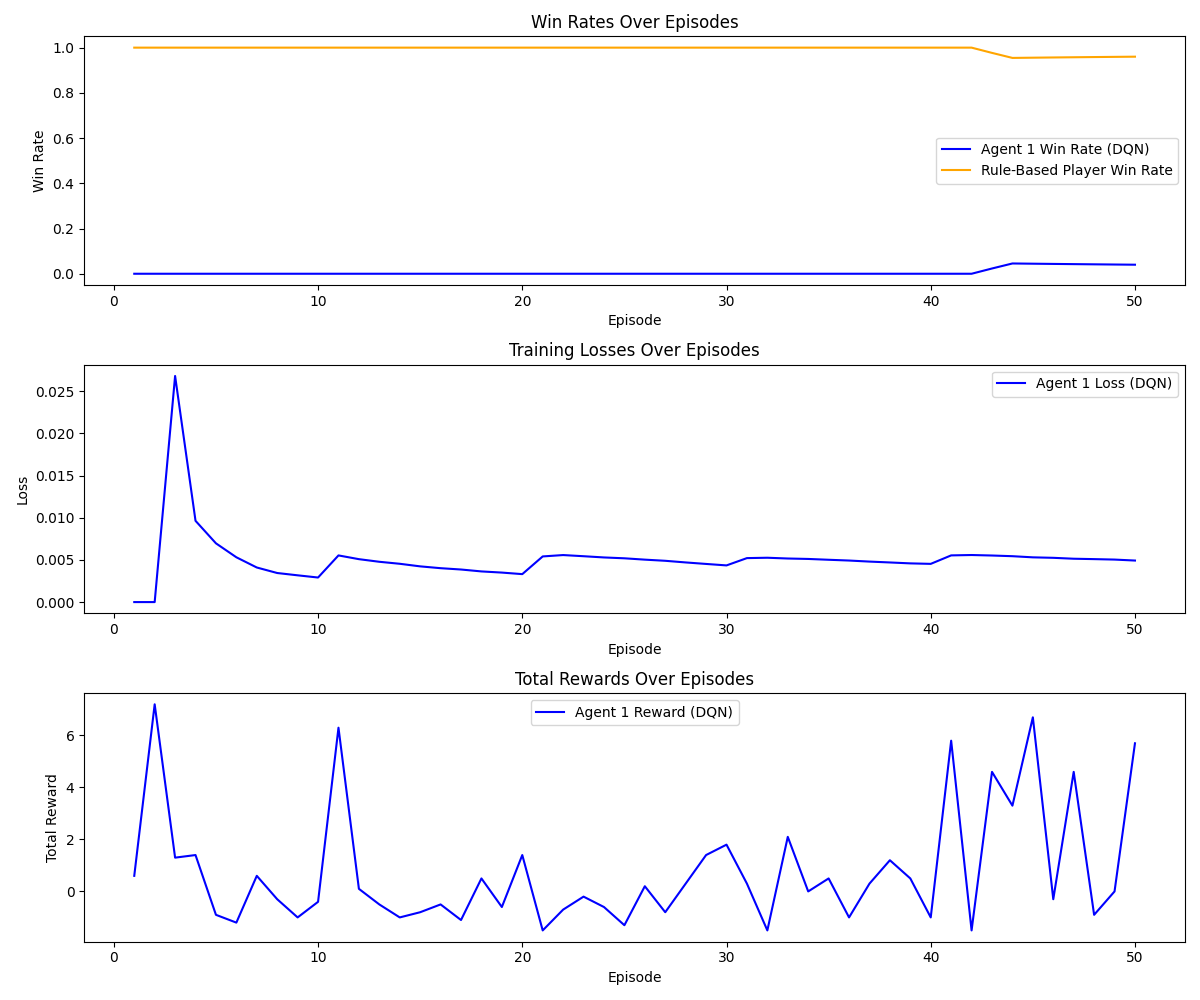
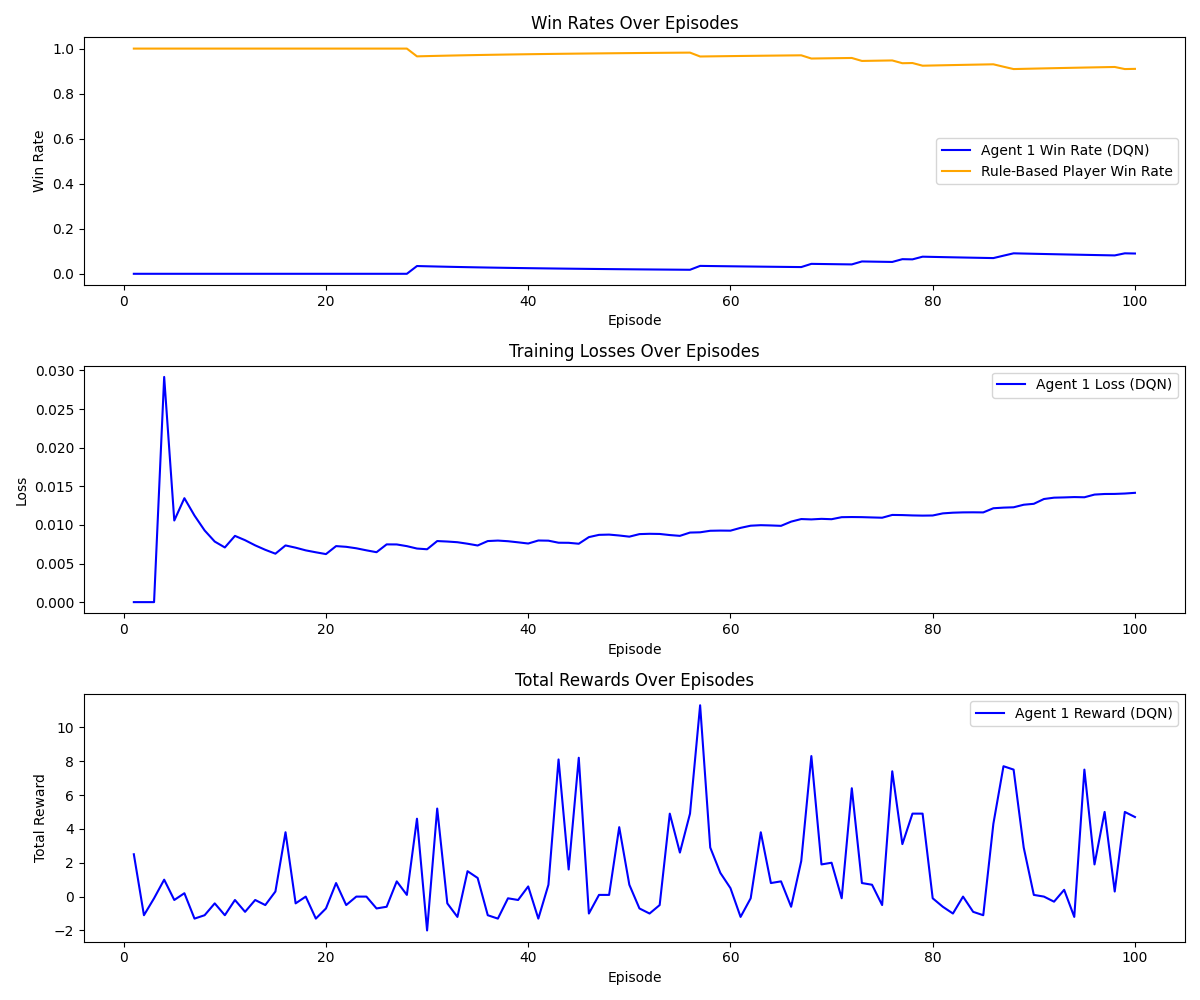
Minor changes to hyperparameters Alyssa

diff --git a/train_rule_based_dqn.py b/train_rule_based_dqn.py
@@ -17,10 +17,10 @@ def train_dqn_rule_based(
     batch_size: int = 128,
     gamma: float = 0.95,
     epsilon_start: float = 1.0,
-    epsilon_end: float = 0.1,
+    epsilon_end: float = 0.0,
     epsilon_decay: float = 0.9995,
     learning_rate: float = 1e-3,
-    update_target_every: int = 10,
+    update_target_every: int = 5,
     device: str = None,
     save_model_every: int = 100,
     model_save_path: str = "dqn_gomoku.pth",

diff --git a/train_self_play_dqn.py b/train_self_play_dqn.py
@@ -193,7 +193,7 @@ def train_dqn_self_play(
     batch_size: int = 128,
     gamma: float = 0.95,
     epsilon_start: float = 1.0,
-    epsilon_end: float = 0.1,
+    epsilon_end: float = 0.0,
     epsilon_decay: float = 0.9995,
     learning_rate: float = 1e-3,
     update_target_every: int = 10,
